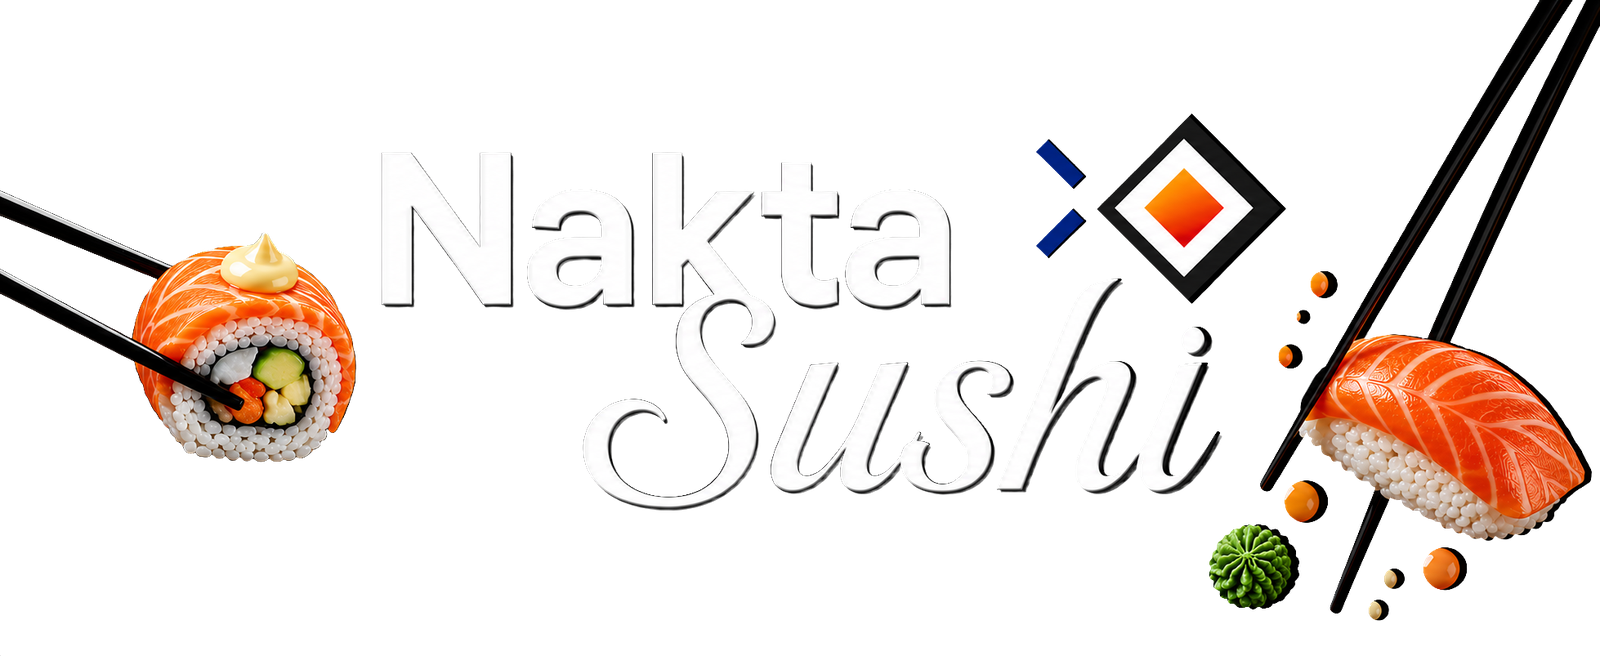
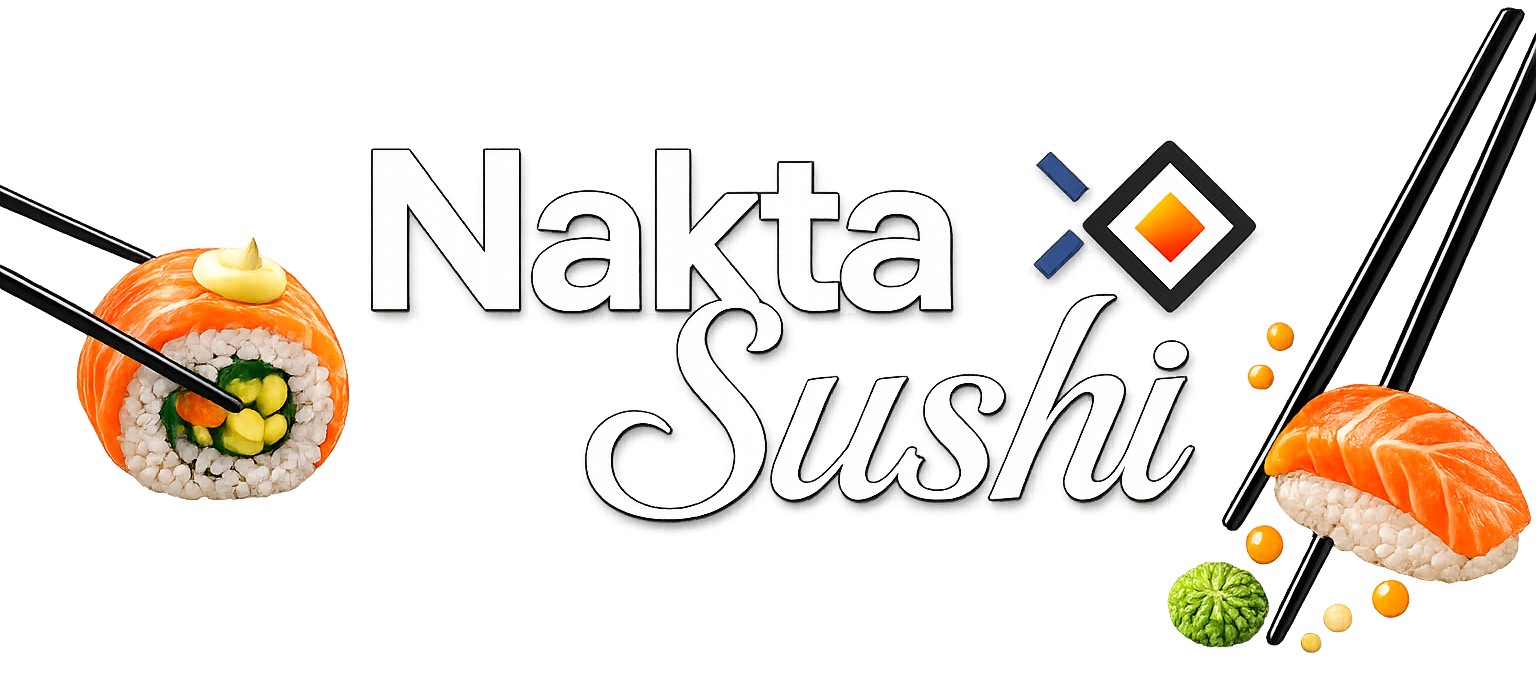
Use final generated mobile hero

Changed region(s): [[0.0, 0.0, 1.0, 0.9756], [0.25, 0.2134, 0.2812, 0.2439]]

diff --git a/app/globals.css b/app/globals.css
@@ -25,7 +25,6 @@ a { color: inherit; text-decoration: none; }
 .brand-hero { height: 358px; position: relative; background: var(--orange); overflow: hidden; }
 .brand-main { position: absolute; width: min(1280px, 100%); max-width: none; height: auto; left: 50%; top: -20px; transform: translateX(-50%); }
 .brand-main img { display: block; width: 100%; height: auto; }
-.mobile-brand-logo-fix { display: none; }
 .brand-wordmark { position: absolute; z-index: 2; width: 104px; max-width: none; left: calc(50% - 640px); top: 27px; border-radius: 18px; }
 .brand-smile { position: absolute; z-index: 2; width: 130px; max-width: none; height: auto; left: calc(50% - 300px); top: 210px; }
 .download-app { position: absolute; z-index: 2; width: 160px; max-width: none; right: calc(50% - 640px); top: 48px; }
@@ -469,14 +468,6 @@ a { color: inherit; text-decoration: none; }
   .brand-hero { height: 200px; }
   .brand-hero { background: var(--orange); }
   .brand-main { width: min(100%, 488px); max-width: none; height: auto; left: 50%; top: 0; transform: translateX(-50%); z-index: auto; }
-  .mobile-brand-logo-fix { position: absolute; z-index: 4; left: calc(50% + min(24vw, 117px) - 42px); top: 16px; width: 84px; height: 72px; display: block; background: var(--orange); }
-  .mobile-brand-fin { position: absolute; z-index: 2; left: 5px; width: 22px; height: 8px; border-radius: 1px; background: #104683; transform: rotate(45deg); transform-origin: center; }
-  .mobile-brand-fin-top { top: 16px; }
-  .mobile-brand-fin-bottom { top: 42px; }
-  .mobile-brand-diamond { position: absolute; z-index: 1; right: 5px; top: 9px; width: 46px; height: 46px; border: 1px solid #111; background: #252b2d; transform: rotate(45deg); }
-  .mobile-brand-diamond::before, .mobile-brand-diamond::after { content: ""; position: absolute; }
-  .mobile-brand-diamond::before { inset: 8px; background: #fff; }
-  .mobile-brand-diamond::after { inset: 16px; background: linear-gradient(135deg, #ffb126 0%, #ff7b18 48%, #ff261e 100%); }
   .brand-wordmark { display: block; width: 82px; max-width: none; left: 19px; top: 14px; z-index: auto; }
   .brand-smile { width: 78px; height: auto; left: calc(50% - 145px); top: 106px; z-index: 10; }
   .download-app { display: none; }

diff --git a/app/components/Storefront.tsx b/app/components/Storefront.tsx
@@ -1244,11 +1244,6 @@ function StorefrontContent({ categorySlug }: { categorySlug?: string }) {
           <source media="(max-width: 720px)" srcSet="/mobile-header-1600-transparent-v2.png" />
           <img src="/desktop-header-20260726-v3.png" alt="Накта суши" />
         </picture>
-        <span className="mobile-brand-logo-fix" aria-hidden="true">
-          <i className="mobile-brand-fin mobile-brand-fin-top" />
-          <i className="mobile-brand-fin mobile-brand-fin-bottom" />
-          <i className="mobile-brand-diamond" />
-        </span>
         <img className="brand-smile" src="/смайлик.webp" alt="" aria-hidden="true" />
         <a href="https://trk.mail.ru/c/a7gh71" aria-label="Скачайте приложение"><img className="download-app" src="https://mnogolososya.ru/_nuxt/download-app.BLqCltS2.svg" alt="Скачайте приложение" /></a>
       </section>
